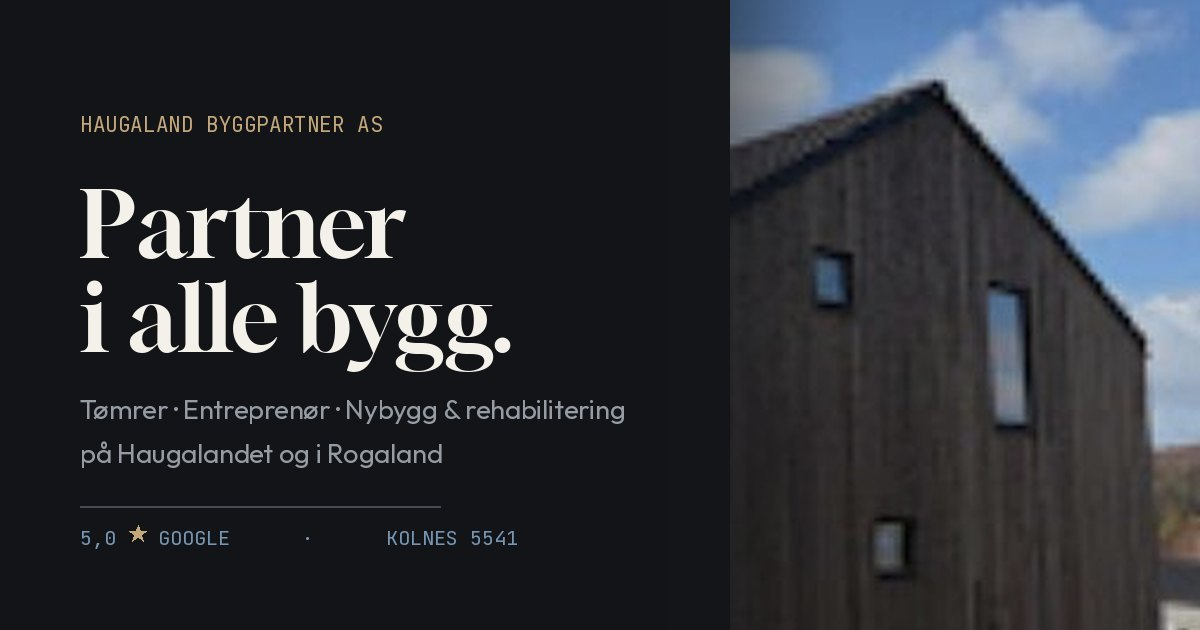
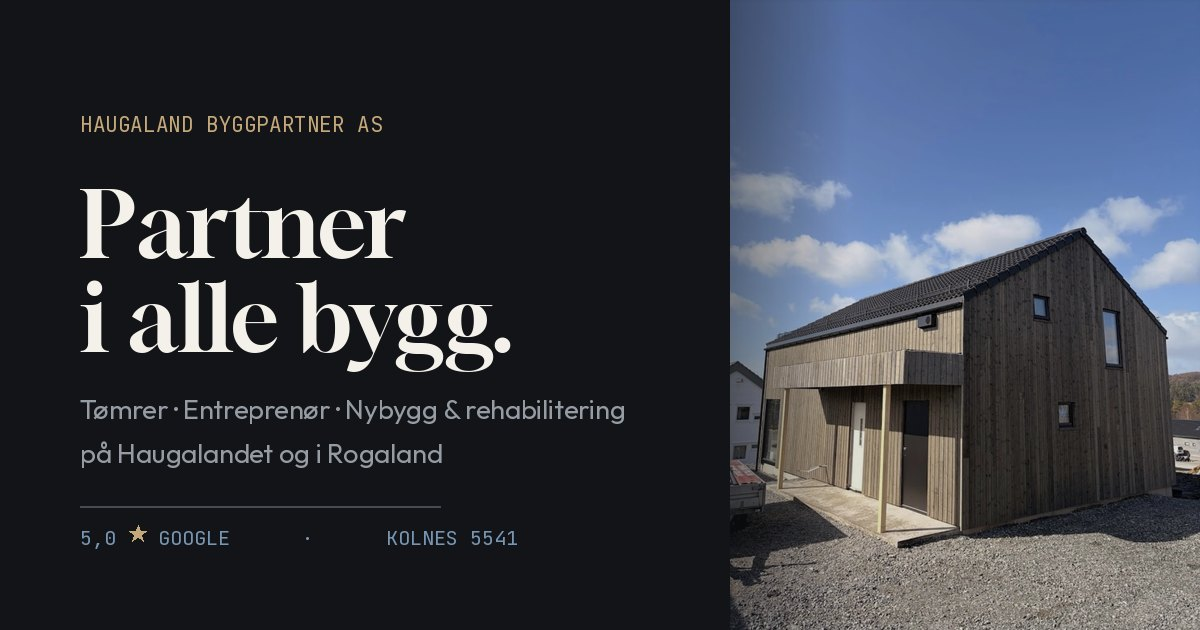
Oppgrader prosjektbilder med rene, ferdigstilte foto
Bytter hero og prosjektgalleri til høyoppløste, beskårne foto fra bedriftens
egne prosjekter (sjønær trekledning, mørk gavl, spilefasade, hvite fasadeplater,
naust-rehabilitering, terrasse). Nye tjeneste- og OG-bilder. Fjerner ubrukte
skjermbilde-baserte bilder.

Claude-Session: https://claude.ai/code/session_013n1nL1d7UEXjwVsKA1Xfy4

Changed region(s): [[0.5858, 0.0, 1.0, 1.0]]

diff --git a/index.html b/index.html
@@ -129,9 +129,9 @@
     </h1>
 
     <figure class="hero__photo" data-hero="4">
-      <img src="assets/img/prosjekt-hytte.jpg" width="505" height="625"
-           alt="Enebolig med mørk trekledning oppført av Haugaland Byggpartner" loading="eager" />
-      <figcaption><span>Enebolig · mørk trekledning</span><span>Karmøy</span></figcaption>
+      <img src="assets/img/hero.jpg" width="1179" height="1572"
+           alt="Sjønær bolig med vertikal trekledning oppført av Haugaland Byggpartner" loading="eager" />
+      <figcaption><span>Sjønær bolig · trekledning</span><span>Haugalandet</span></figcaption>
     </figure>
 
     <div class="hero__lead" data-hero="5">
@@ -218,7 +218,7 @@
         </div>
         <span class="svc__arrow" aria-hidden="true">→</span>
       </li>
-      <li class="svc" data-reveal data-img="assets/img/prosjekt-trekledning.jpg">
+      <li class="svc" data-reveal data-img="assets/img/prosjekt-hvitfasade.jpg">
         <span class="svc__no">03</span>
         <div class="svc__body">
           <h3 class="svc__title">Etterisolering &amp; energiløft</h3>
@@ -226,7 +226,7 @@
         </div>
         <span class="svc__arrow" aria-hidden="true">→</span>
       </li>
-      <li class="svc" data-reveal data-img="assets/img/prosjekt-taktekking.jpg">
+      <li class="svc" data-reveal data-img="assets/img/prosjekt-naust.jpg">
         <span class="svc__no">04</span>
         <div class="svc__body">
           <h3 class="svc__title">Rehabilitering &amp; oppussing</h3>
@@ -269,10 +269,10 @@
   </div>
 
   <div class="proj-stack">
-    <!-- 1 large -->
+    <!-- 1 large lead -->
     <article class="proj proj--lead" data-reveal>
       <a class="proj__media" href="#kontakt" aria-label="Enebolig med mørk trekledning – Karmøy">
-        <img src="assets/img/prosjekt-hytte.jpg" alt="Moderne enebolig med mørk stående trekledning" loading="lazy" />
+        <img src="assets/img/prosjekt-morkgavl.jpg" alt="Moderne enebolig med mørk stående trekledning og saltak" loading="lazy" />
       </a>
       <div class="proj__meta">
         <span class="proj__tag">Nybygg</span>
@@ -285,7 +285,7 @@
     <div class="proj-duo">
       <article class="proj" data-reveal>
         <a class="proj__media" href="#kontakt" aria-label="Moderne bolig med spilefasade">
-          <img src="assets/img/prosjekt-spilefasade.jpg" alt="Moderne bolig med vertikal spilefasade i tre" loading="lazy" />
+          <img src="assets/img/prosjekt-spilefasade.jpg" alt="Moderne bolig med vertikal spilefasade i tre og markert takutstikk" loading="lazy" />
         </a>
         <div class="proj__meta">
           <span class="proj__tag">Fasade</span>
@@ -294,28 +294,52 @@
         </div>
       </article>
       <article class="proj" data-reveal>
-        <a class="proj__media" href="#kontakt" aria-label="Fasadeløft med ny trekledning i Haugesund">
-          <img src="assets/img/prosjekt-trekledning.jpg" alt="Fasadeløft med ny lys trekledning og store vindusfelt" loading="lazy" />
+        <a class="proj__media" href="#kontakt" aria-label="Fasadeløft med hvite fasadeplater">
+          <img src="assets/img/prosjekt-hvitfasade.jpg" alt="Bolig kledd i nye hvite fasadeplater etter fasadeløft" loading="lazy" />
         </a>
         <div class="proj__meta">
           <span class="proj__tag">Rehabilitering</span>
-          <h3 class="proj__title">Fasadeløft &amp; etterisolering</h3>
-          <p class="proj__loc">Haugesund</p>
+          <h3 class="proj__title">Fasadeløft i hvite fasadeplater</h3>
+          <p class="proj__loc">Haugalandet · Råteskader erstattet</p>
         </div>
       </article>
     </div>
 
-    <!-- 4 wide -->
+    <!-- 4 wide seaside -->
     <article class="proj proj--wide" data-reveal>
-      <a class="proj__media" href="#kontakt" aria-label="Nybygg i samarbeid – Rogaland">
-        <img src="assets/img/prosjekt-nybygg.jpg" alt="Nybygg under reising med bærende trekonstruksjoner" loading="lazy" />
+      <a class="proj__media" href="#kontakt" aria-label="Sjønær bolig med trekledning">
+        <img src="assets/img/prosjekt-sjonaer.jpg" alt="Sjønær bolig med vertikal trekledning og utsikt mot havet" loading="lazy" />
       </a>
       <div class="proj__meta">
-        <span class="proj__tag">Nybygg · Samarbeid</span>
-        <h3 class="proj__title">Enebolig i samarbeid med Bjelland &amp; Lilleskog</h3>
-        <p class="proj__loc">Rogaland</p>
+        <span class="proj__tag">Nybygg</span>
+        <h3 class="proj__title">Sjønær bolig med trekledning</h3>
+        <p class="proj__loc">Haugalandet</p>
       </div>
     </article>
+
+    <!-- 5 + 6 duo -->
+    <div class="proj-duo">
+      <article class="proj" data-reveal>
+        <a class="proj__media" href="#kontakt" aria-label="Rehabilitering av naust">
+          <img src="assets/img/prosjekt-naust.jpg" alt="Rødt naust ved sjøen med ny kledning og vindskibord" loading="lazy" />
+        </a>
+        <div class="proj__meta">
+          <span class="proj__tag">Rehabilitering</span>
+          <h3 class="proj__title">Nytt liv til naustet</h3>
+          <p class="proj__loc">Haugalandet · Ny kledning &amp; vindskibord</p>
+        </div>
+      </article>
+      <article class="proj" data-reveal>
+        <a class="proj__media" href="#kontakt" aria-label="Bolig med mørk fasade og terrasse">
+          <img src="assets/img/prosjekt-terrasse.jpg" alt="Moderne bolig med mørk fasade og ny terrasse" loading="lazy" />
+        </a>
+        <div class="proj__meta">
+          <span class="proj__tag">Nybygg · Uterom</span>
+          <h3 class="proj__title">Mørk fasade med terrasse</h3>
+          <p class="proj__loc">Rogaland</p>
+        </div>
+      </article>
+    </div>
   </div>
 </section>
 
